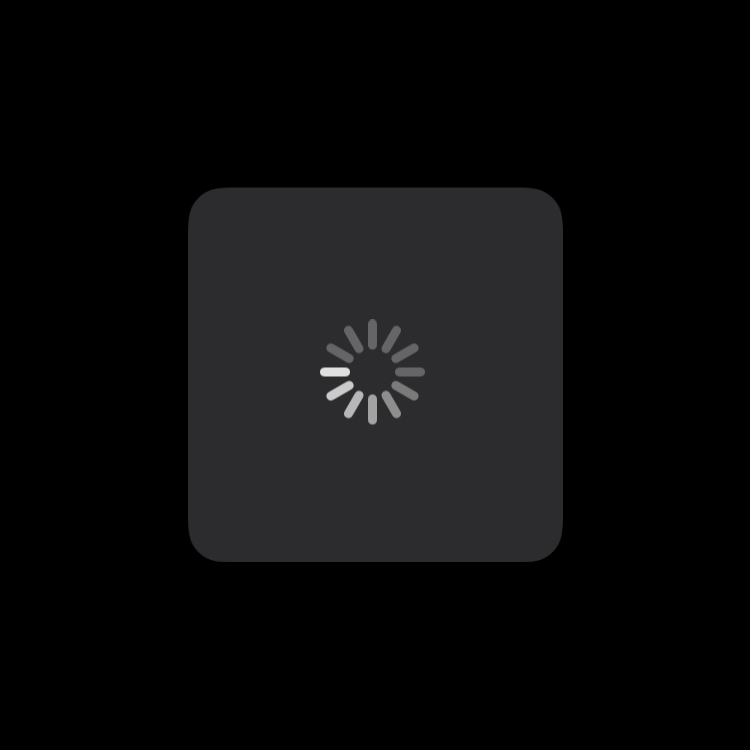
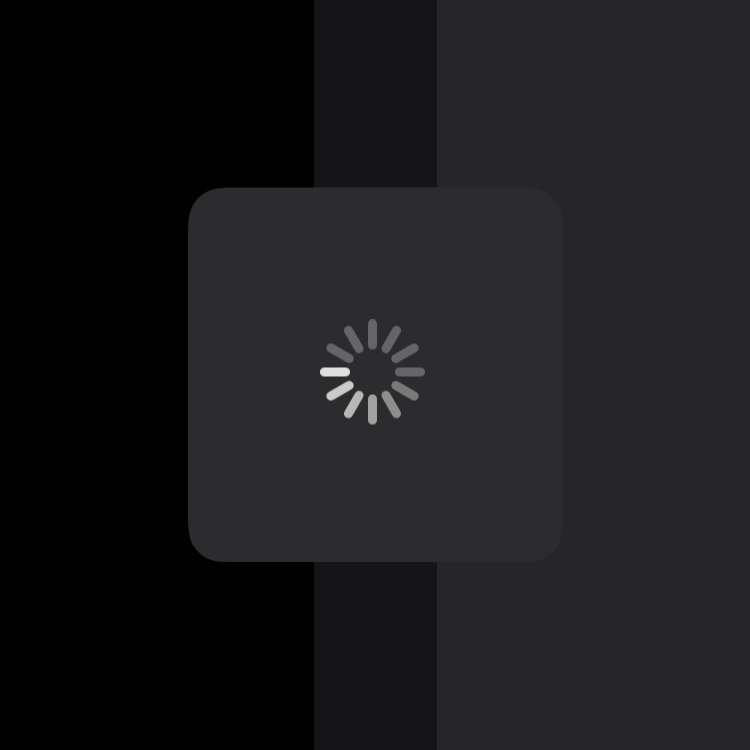
Better demonstrate dark mode support in README.

diff --git a/README.md b/README.md
@@ -16,7 +16,9 @@ This project does exactly that.
 |---|---|
 |![](Images/light.png)|![](Images/dark.png)|
 
-- It's "Jony Curve"-d / a "Squircle" shape (aka `kCACornerCurveContinuous`) on iOS 13+.
+<i>Shown against system background, system background elevated, and table view cell background colors.</i>
+
+- It's a "squircle" shape (aka `kCACornerCurveContinuous`) on iOS 13+.
 
 |Squircle (iOS 13+)|Rounded Rect|
 |---|---|
